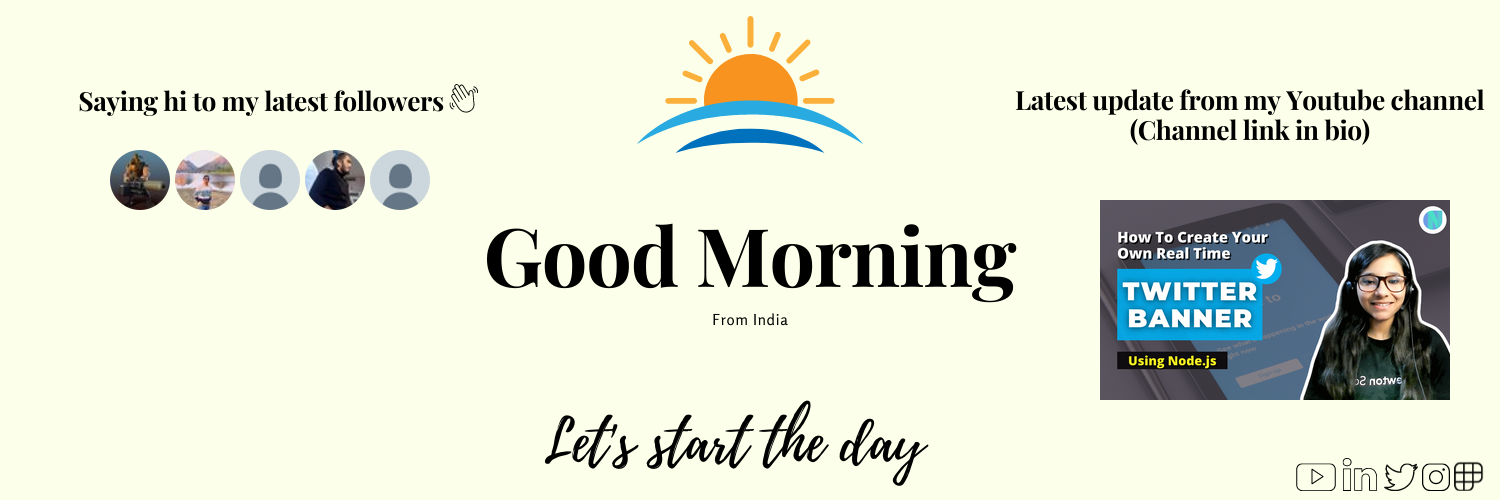
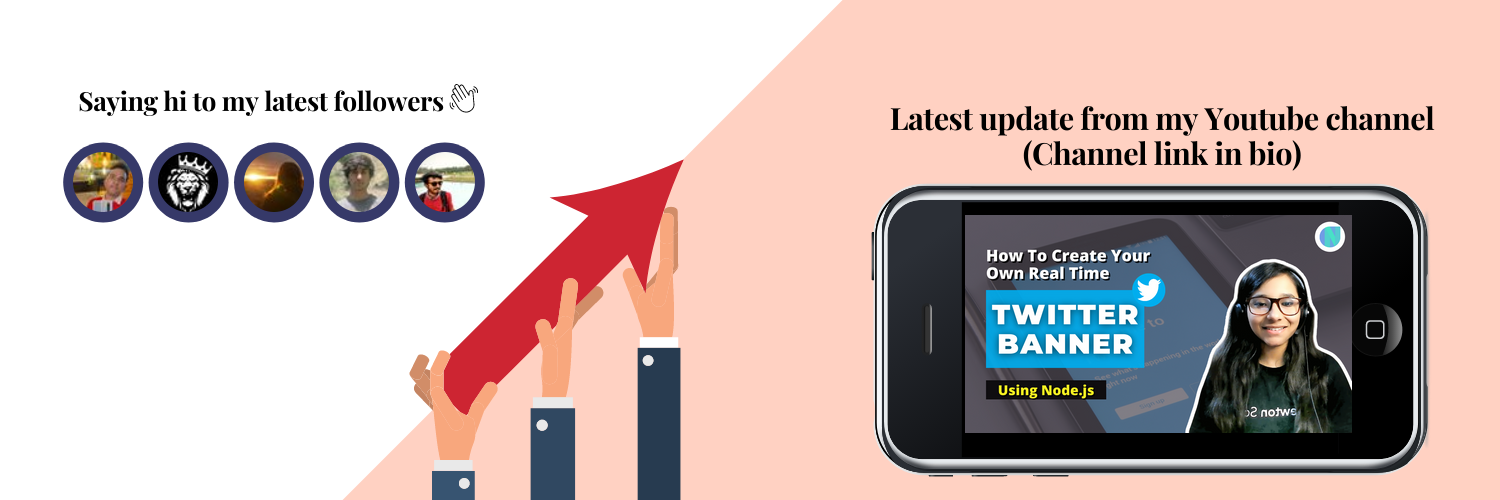
adding constant theme

diff --git a/app.js b/app.js
@@ -29,7 +29,7 @@ async function youtubeThumbnail() {
     const result = await cloudinary.v2.search.expression(
         'folder:youtube/*'
     ).max_results(1).execute()
-    await processImage(result.resources[0].url, 'thumbnail.png', false, { width: 350, height: 200 });
+    await processImage(result.resources[0].url, 'thumbnail.png', false, { width: 387, height: 218 });
 
 }
 
@@ -48,8 +48,8 @@ async function saveImageAndData(followers) {
                 if (fs.existsSync(fileName)) {
                     const follower_avatar = {
                         input: fileName,
-                        top: 150,
-                        left: parseInt(`${110 + 65 * index}`),
+                        top: 152,
+                        left: parseInt(`${73 + 85.5 * index}`),
                     };
                     image_data.push(follower_avatar);
                     index++;
@@ -109,14 +109,20 @@ async function processImage(url, image_path, isUserImage, resizeData) {
 
 async function drawImage(image_data) {
     try {
-        const hour = new Date().getHours();
-        const theme = ["Morning.png", "Afternoon.png", "Evening.png", "Night.png"];
-        let twitterFile = theme[0];
-        console.log(hour);
-        if (hour < 12 && hour > 6) twitterFile = theme[0];
-        else if (hour < 18 && hour >= 12) twitterFile = theme[1];
-        else if (hour < 22 && hour >= 18) twitterFile = theme[2];
-        else if (hour <= 24 || hour <= 6) twitterFile = theme[3];
+        let twitterFile = "background.png";
+
+
+        // Logic for changing theme based on time
+
+        // const hour = new Date().getHours();
+        // const theme = ["Morning.png", "Afternoon.png", "Evening.png", "Night.png"];
+        // twitterFile = theme[0];
+        // console.log(hour);
+        // if (hour < 12 && hour > 6) twitterFile = theme[0];
+        // else if (hour < 18 && hour >= 12) twitterFile = theme[1];
+        // else if (hour < 22 && hour >= 18) twitterFile = theme[2];
+        // else if (hour <= 24 || hour <= 6) twitterFile = theme[3];
+
         new Promise((resolve) => {
             resolve(sharp("banner/" + twitterFile)
                 .composite(image_data)
@@ -164,8 +170,8 @@ async function getFollowers() {
             youtubeThumbnail().then(() => {
                 image_data.push({
                     input: 'thumbnail.png',
-                    top: 200,
-                    left: 1100,
+                    top: 215,
+                    left: 965,
                 });
                 drawImage(image_data).then(() => {
                     console.log(image_data);
